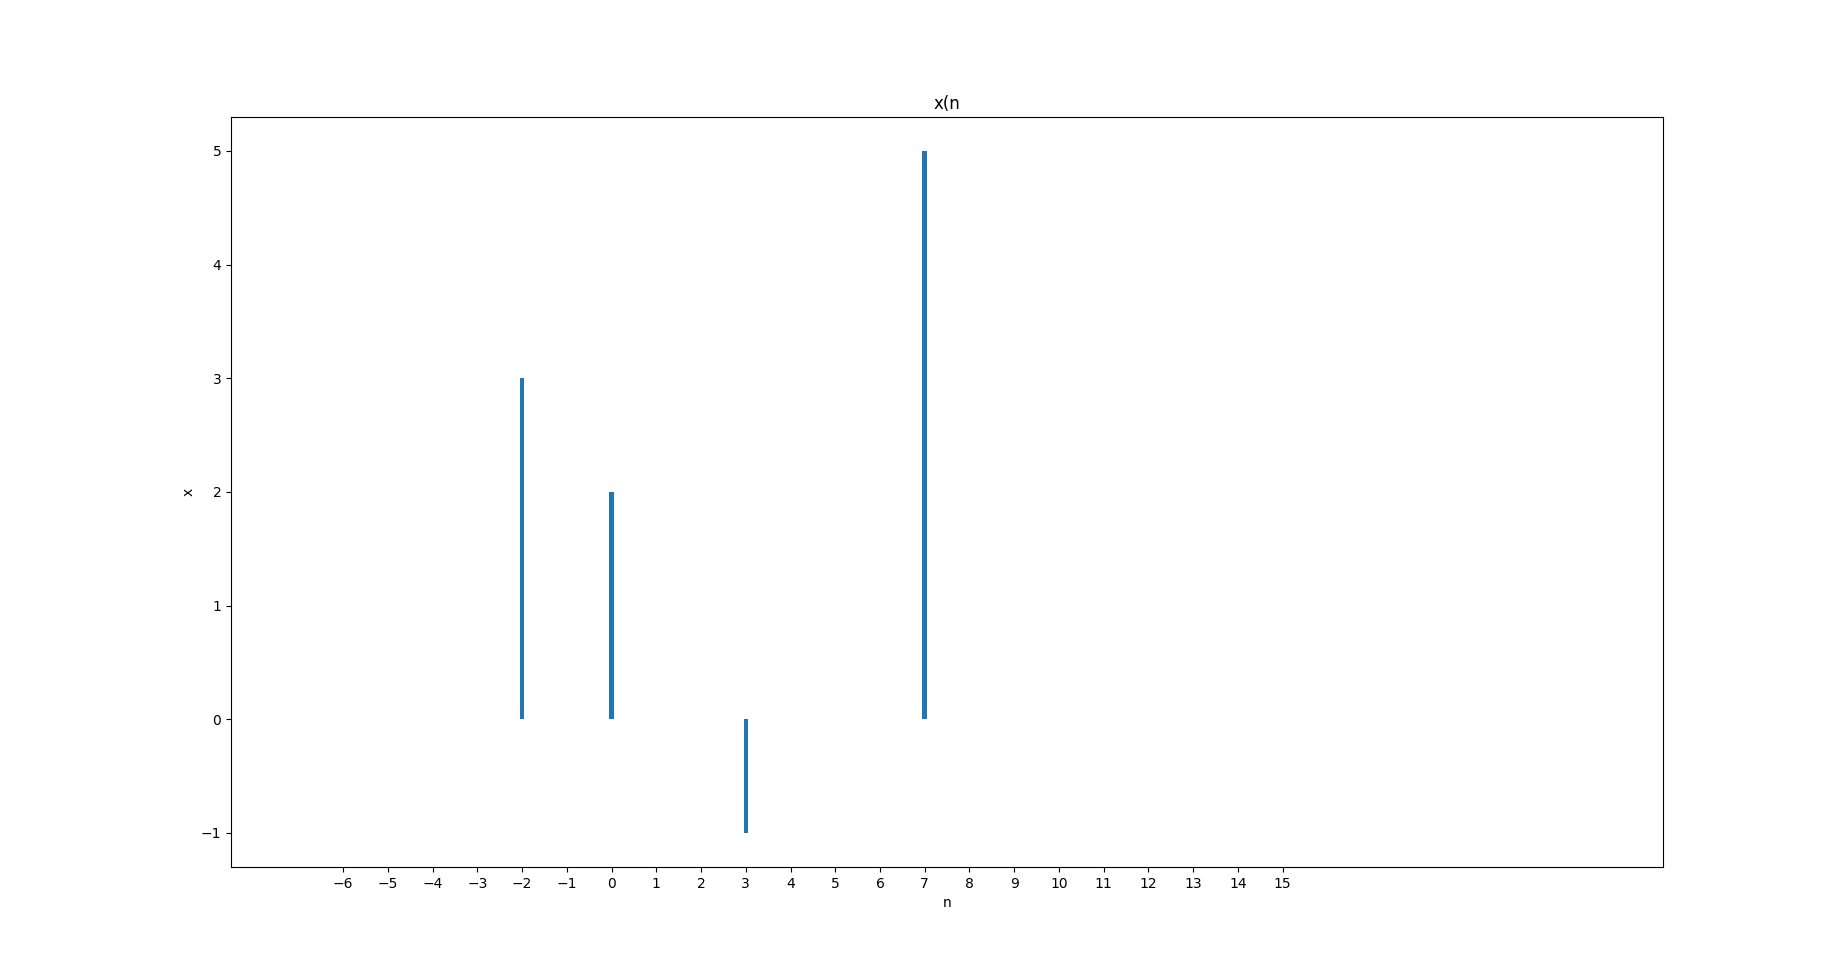
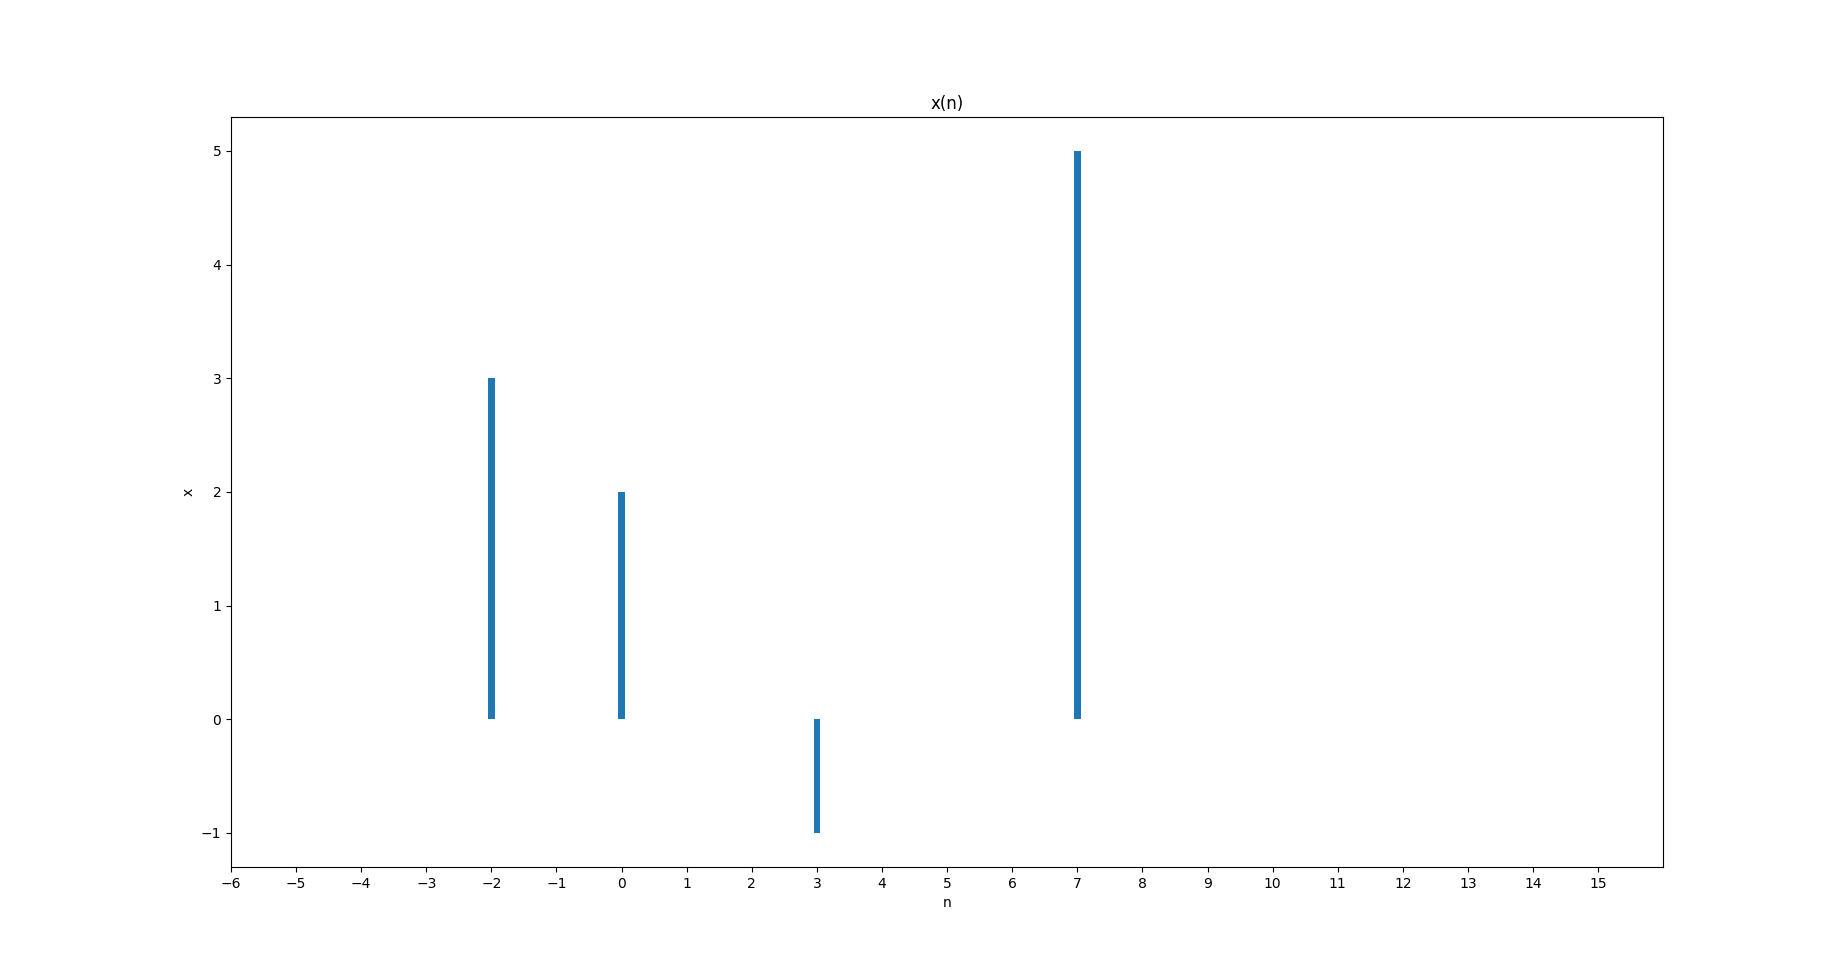
p2.1.2

diff --git a/p2.1.2.py b/p2.1.2.py
@@ -1,0 +1,37 @@
+import matplotlib.pyplot as plt
+import numpy as np
+from base.impseq import *
+from base.conv_m import *
+# from base.sigshift import *
+# from base.sigadd import *
+
+
+delta, m = impseg(0, -10, 10)
+h = np.exp(0.5 * m)
+x, n = conv_m(delta, m, h, m)
+
+# delta, m
+plt.subplot(2, 2, 1)    
+plt.bar(m,delta, width = 0.1)
+plt.xticks(range(np.amin(m), np.amax(m)))
+plt.xlabel('m')
+plt.ylabel('delta')
+plt.title('delta')
+
+# h, m
+plt.subplot(2, 2, 2)    
+plt.bar(m,h, width = 0.1)
+plt.xticks(range(np.amin(m), np.amax(m)+1))
+plt.xlabel('m')
+plt.ylabel('h')
+plt.title('h(m)')
+
+plt.subplot(2, 2, 3)
+plt.bar(n,x, width = 0.1)
+plt.xticks(range(np.amin(m), np.amax(m)+1))
+plt.xlim(np.amin(m), np.amax(m)+1)
+plt.xlabel('n')
+plt.ylabel('x')
+plt.title('x(n)')
+
+plt.show()

diff --git a/p2.1.1.py b/p2.1.1.py
@@ -52,6 +52,6 @@ plt.xticks(range(np.amin(m) - 1, np.amax(m) + 1))
 plt.xlim(np.amin(m) - 1, np.amax(m) + 1)
 plt.xlabel('n')
 plt.ylabel('x')
-plt.title('x(n')
+plt.title('x(n)')
 
 plt.show()
